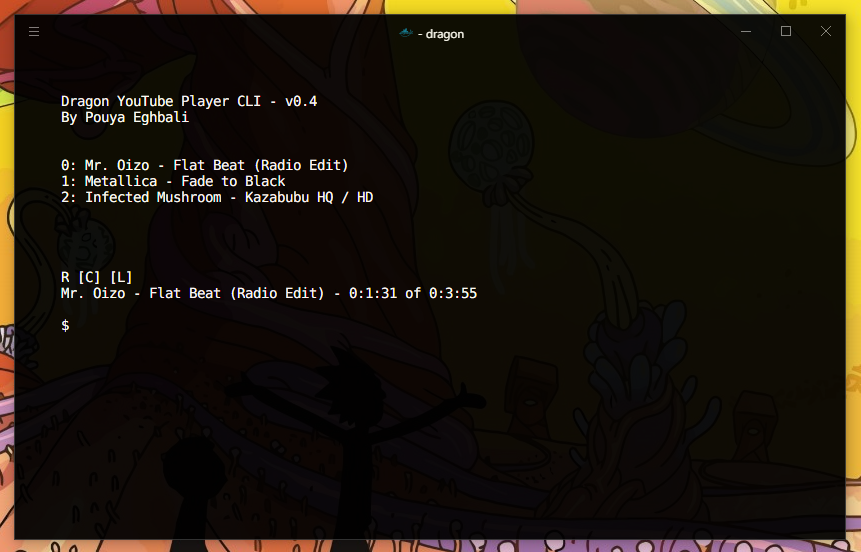
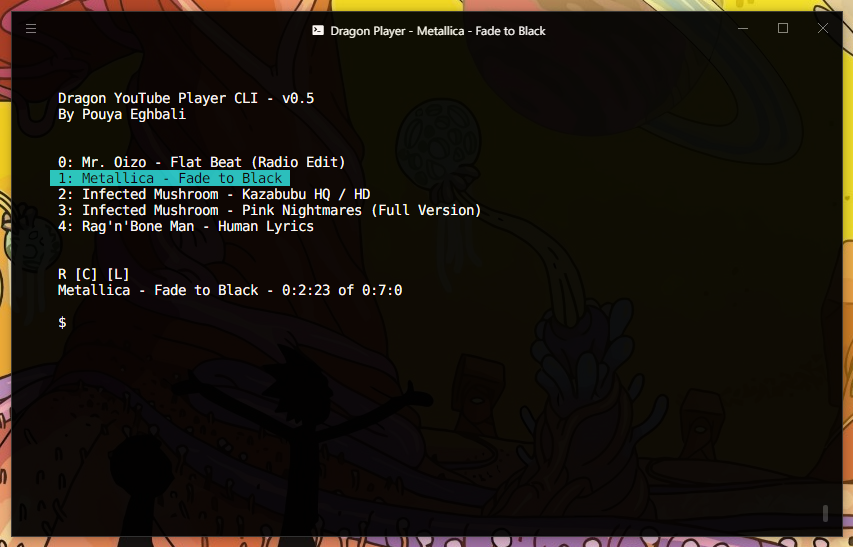
support for playlist highlighting and window titles

diff --git a/dragon_player/cli.py b/dragon_player/cli.py
@@ -32,7 +32,7 @@ def download(url, dragon, on_dl_completed, print_dl_progress):
 
 class dragon(object):
     def __init__(self, screen, fps = 120):
-        self.version = '0.4'
+        self.version = '0.5'
         self.screen = screen
         self.cmd = ''
         self.fps = fps
@@ -40,7 +40,7 @@ class dragon(object):
         self.dl_list = []
         self.media_dir = '~/Dragon'
         self.mediaplayer = vlc.MediaPlayer()
-        self.curr_song = 0
+        self.curr_song = None
         self.media_name = None
         self.yid = None
         self.dl_percentage = 0
@@ -48,6 +48,7 @@ class dragon(object):
         self.continuous = True
         self.looping = True
         self.playing = False
+        self.pl_highlight_index = 0
         with open(os.path.expanduser('~/Dragon/main.json'), 'r', encoding='utf-8') as f:
             self.playlist = list(enumerate(json.load(f)))
             self.pl_index = len(self.playlist)
@@ -71,14 +72,28 @@ class dragon(object):
                 self.screen.print_at(' '*len(self.cmd), 6, 16)
                 self.cmd = self.cmd[:-1]
             elif key_code in [10, 13]: #return
-                command = self.cmd
-                self.screen.print_at(' '*len(self.cmd), 6, 16)
-                self.screen.refresh()
-                self.cmd = ''
-                self.run_cmd(command)
+                if not self.cmd:
+                    if self.pl_highlight_index == self.curr_song and self.mediaplayer.is_playing():
+                        self.playing = False
+                        self.mediaplayer.pause()
+                    elif self.pl_highlight_index == self.curr_song and not self.mediaplayer.is_playing():
+                        self.playing = True
+                        self.mediaplayer.play()
+                    else:
+                        self.playing = False
+                        self.mediaplayer.pause()
+                        self.play_from_list(self.pl_highlight_index)
+                else:
+                    command = self.cmd
+                    self.screen.print_at(' '*len(self.cmd), 6, 16)
+                    self.screen.refresh()
+                    self.cmd = ''
+                    self.run_cmd(command)
             elif key_code == -204: #up
+                self.pl_highlight_index -= 1
                 self.print_playlist(self.pl_index - 1)
             elif key_code == -206: #down
+                self.pl_highlight_index += 1
                 self.print_playlist(self.pl_index + 1)
             else:
                 try:
@@ -93,6 +108,7 @@ class dragon(object):
             total = self.ms_to_human(self.mediaplayer.get_length())
             self.screen.print_at(' '*self.screen.width, 0, 14)
             self.screen.print_at(f'{self.media_name} - {now} of {total}', 4, 14)
+            self.screen.set_title(f'Dragon Player - {self.media_name}')
 
     def play_from_list(self, index):
         try:
@@ -128,6 +144,7 @@ class dragon(object):
             sys.exit(0)
         elif re.match(r'^(s|sc|scroll) ([0-9]+)$', cmd):
             command, query = re.match(r'([^ ]+) ?(.*)?', cmd).groups()
+            self.pl_highlight_index = int(query)
             self.print_playlist(int(query))
         elif re.match(r'^(f|s|find|search) (.+)$', cmd):
             command, query = re.match(r'([^ ]+) ?(.*)?', cmd).groups()
@@ -315,11 +332,18 @@ class dragon(object):
         self.pl_index = mid
         start = mid - 2
         if start < 0: start = 0
+        if self.pl_highlight_index >= len(self.playlist):
+            self.pl_highlight_index = len(self.playlist) - 1
+        if self.pl_highlight_index <= 0:
+            self.pl_highlight_index = 0
         if self.playlist:
             for i in range(0, 5):
                 self.clear_line(6+i)
             for i, item in self.playlist[start:start+5]:
-                self.screen.print_at(f'{i}: {item["title"]}', 4, 6+i-start)
+                if i == self.pl_highlight_index:
+                    self.screen.print_at(f' {i}: {item["title"]} ', 3, 6+i-start, colour=0, bg=6)
+                else:
+                    self.screen.print_at(f'{i}: {item["title"]}', 4, 6+i-start)
 
     def print_cmd(self):
         self.clear_line(16)
@@ -363,6 +387,7 @@ class dragon(object):
                 self.play_from_list(self.curr_song)
 
     def run_forever(self):
+        self.screen.set_title(f'Dragon Player')
         self.print_info()
         self.print_playlist()
         while True:
@@ -388,3 +413,6 @@ def main():
             json.dump([], f)
 
     Screen.wrapper(dragon)
+
+if __name__ == '__main__':
+    main()

diff --git a/setup.py b/setup.py
@@ -8,7 +8,7 @@ with open(path.join(this_directory, 'readme.md'), encoding='utf-8') as f:
 
 setup(
     name='dragon-player',
-    version="0.4",
+    version="0.5",
     packages=find_packages(),
     include_package_data=False,
     install_requires=["asciimatics", "python_vlc", "beautifulsoup4", "requests", "youtube_dl"],

diff --git a/readme.md b/readme.md
@@ -1,7 +1,7 @@
 
 # Dragon
 
-Dragon is a CLI YouTube music player app. This is for personal use only. I'm not responsible for any copyright related issues.
+Dragon is a CLI YouTube music player app.
 
 ![Dragon Screenshot](https://github.com/pouya-eghbali/dragon/raw/master/dragon.png)
 
